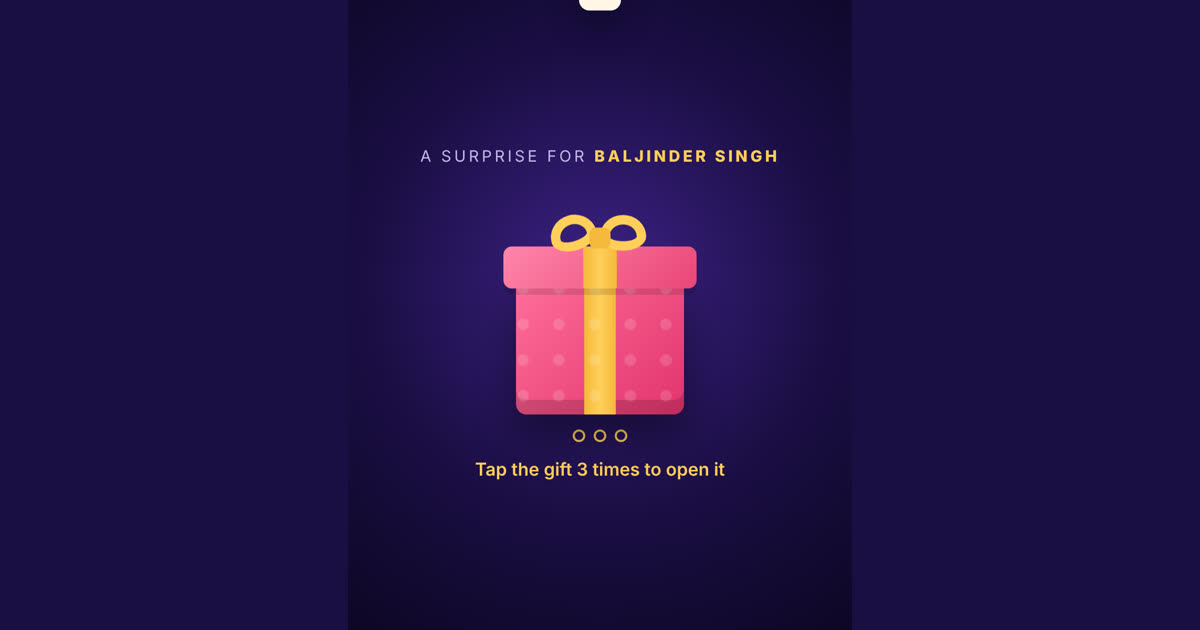
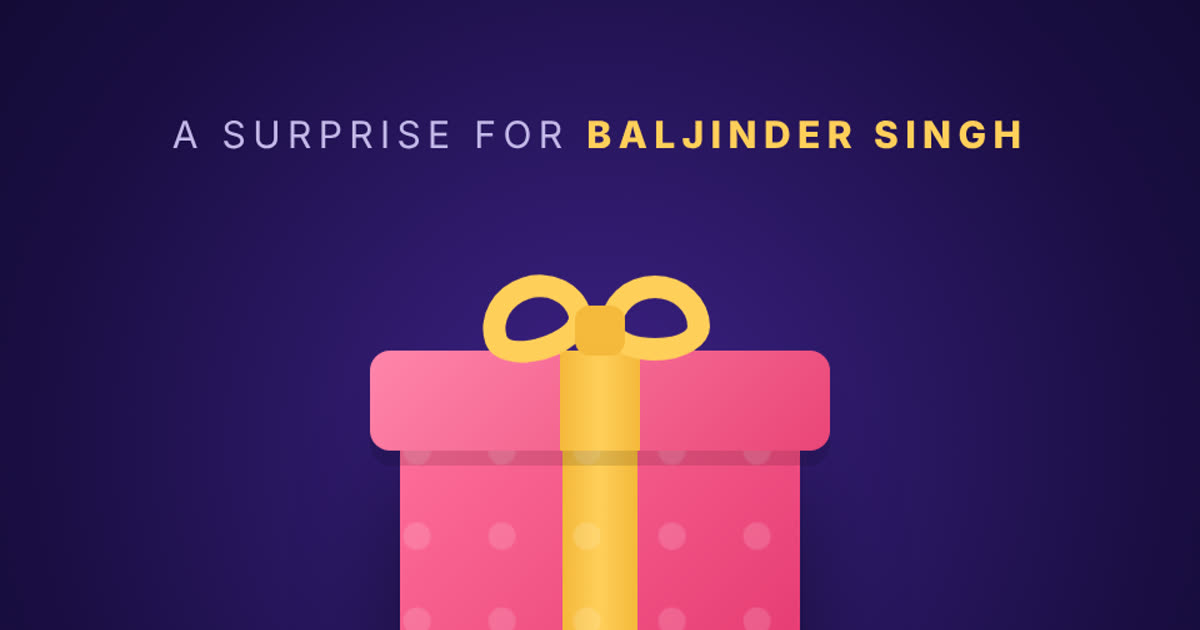
Fix hidden toast peeking at top; sharper preview image
Claude-Session: https://claude.ai/code/session_01T7BHLUZii3k5sJMuBEyLfX

diff --git a/birthday/index.html b/birthday/index.html
@@ -198,8 +198,8 @@ section.st{margin:30px auto 0;padding:26px 18px;border-radius:22px;background:rg
 .mark::before,.mark::after{content:"✦";margin:0 8px;font-size:10px;vertical-align:2px}
 
 /* toast + fabs */
-#toast{position:fixed;left:50%;top:calc(18px + env(safe-area-inset-top,0px));transform:translate(-50%,-140%);z-index:90;padding:10px 20px;border-radius:999px;background:var(--cream);color:#22113f;font-weight:800;box-shadow:0 10px 30px rgba(0,0,0,.4);transition:transform .45s cubic-bezier(.3,1.5,.5,1);white-space:nowrap;max-width:calc(100vw - 32px);overflow:hidden;text-overflow:ellipsis}
-#toast.show{transform:translate(-50%,0)}
+#toast{position:fixed;left:50%;top:calc(18px + env(safe-area-inset-top,0px));transform:translate(-50%,-250%);opacity:0;z-index:90;padding:10px 20px;border-radius:999px;background:var(--cream);color:#22113f;font-weight:800;box-shadow:0 10px 30px rgba(0,0,0,.4);transition:transform .45s cubic-bezier(.3,1.5,.5,1);white-space:nowrap;max-width:calc(100vw - 32px);overflow:hidden;text-overflow:ellipsis}
+#toast.show{transform:translate(-50%,0);opacity:1}
 .fab{position:fixed;bottom:calc(12px + env(safe-area-inset-bottom,0px));z-index:85;border:1.5px solid var(--gold);border-radius:999px;background:rgba(19,11,48,.92);color:var(--gold);font-weight:800;font-size:14px;padding:7px 13px;box-shadow:0 8px 20px rgba(0,0,0,.4);backdrop-filter:blur(6px);transition:opacity .5s}
 #musicBtn{right:16px}
 #replayBtn{left:16px}
